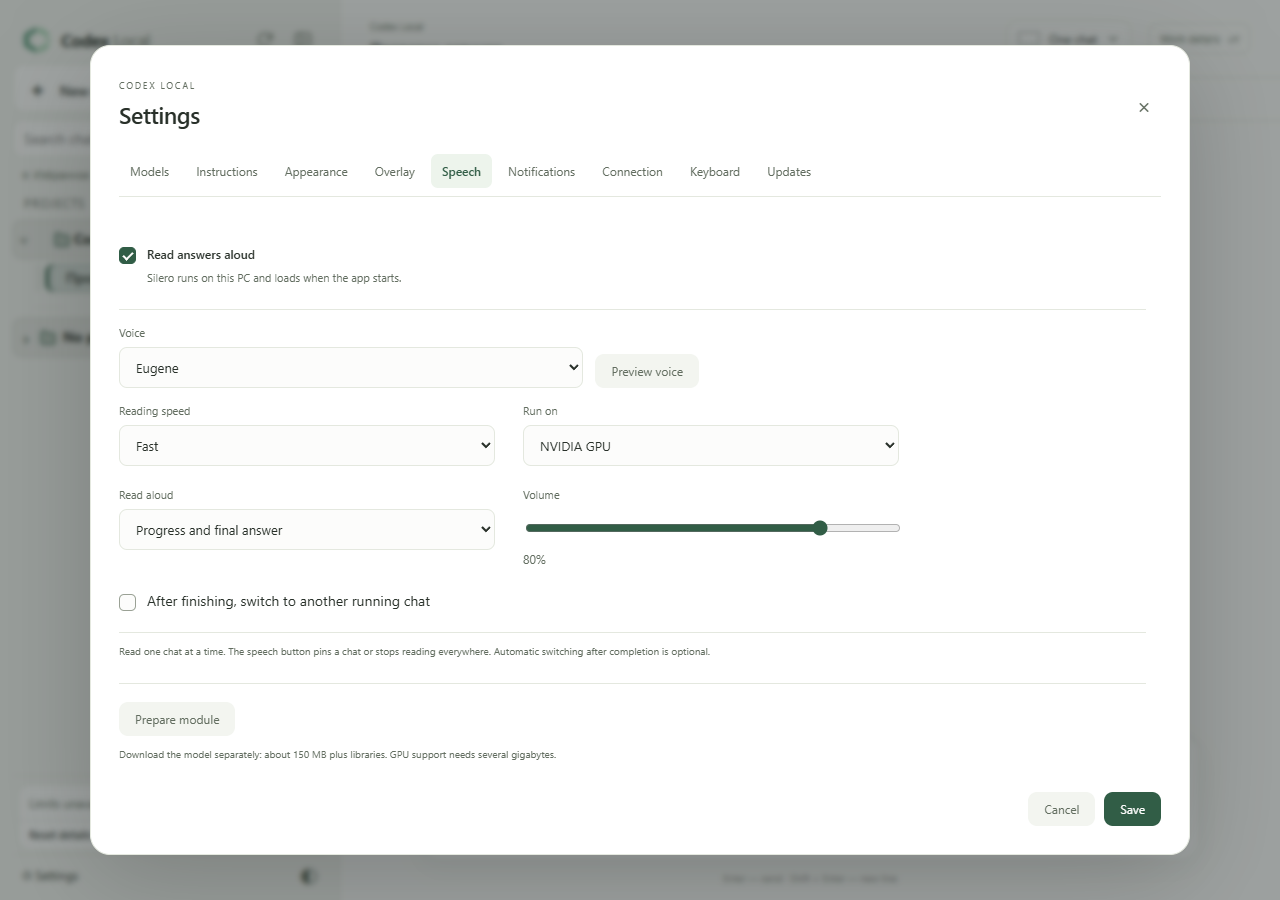
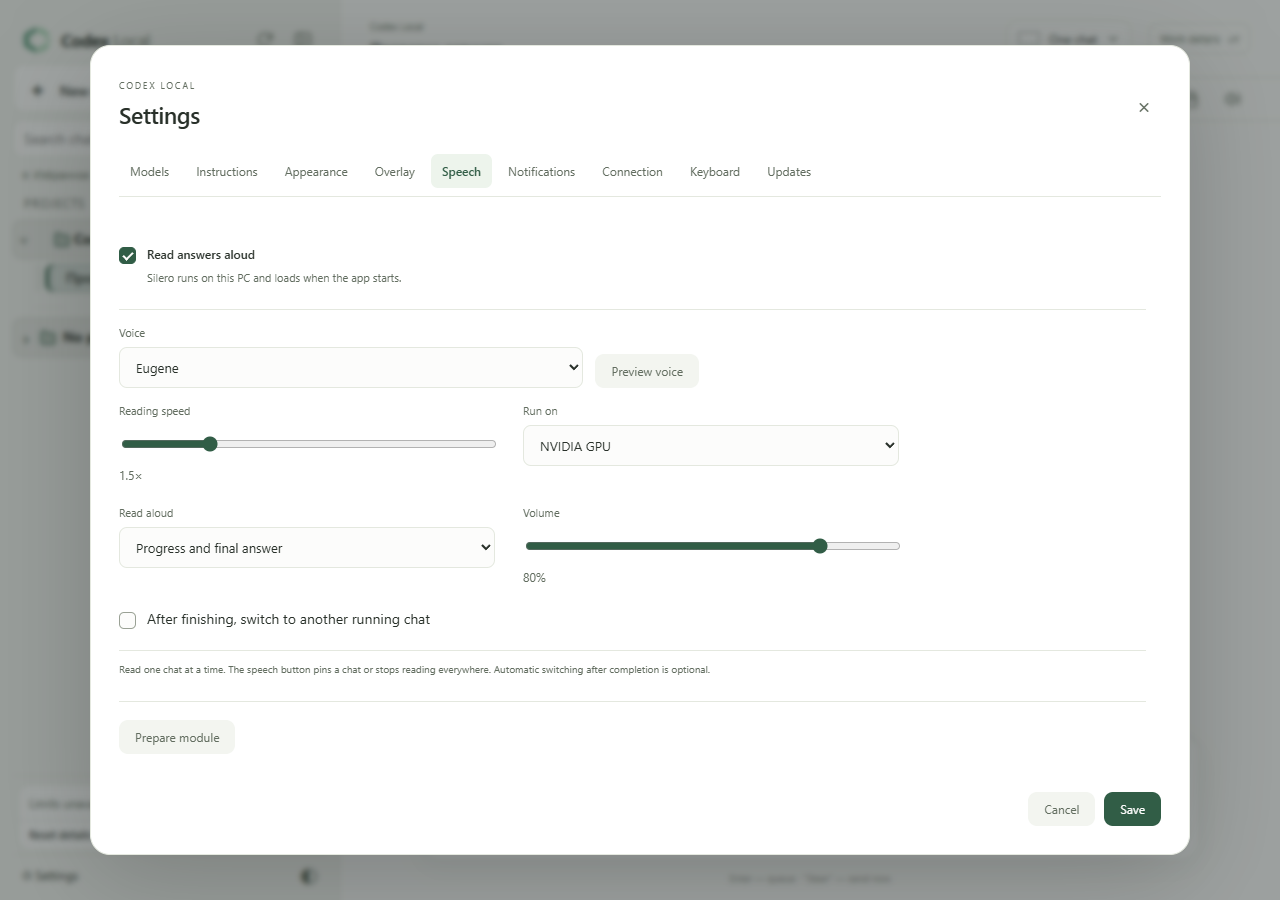
Update 0.8.88 speech controls and documentation [skip ci]

diff --git a/README.en.md b/README.en.md
@@ -3,7 +3,7 @@
   <h1>Codex Local</h1>
   <p>Your Codex — on your PC, in a browser and on your phone.</p>
   <p><strong>Windows x64 · local panel · web access and PWA</strong></p>
-  <p><a href="https://github.com/DenisG1302/codex-local/releases/tag/installer-v0.8.87"><strong>Download installer</strong></a> · <a href="https://github.com/DenisG1302/codex-local/releases">Release notes</a> · <a href="README.md">Русский</a></p>
+  <p><a href="https://github.com/DenisG1302/codex-local/releases/tag/installer-v0.8.88"><strong>Download installer</strong></a> · <a href="https://github.com/DenisG1302/codex-local/releases">Release notes</a> · <a href="README.md">Русский</a></p>
 </div>
 
 ---
@@ -64,7 +64,7 @@ In Settings → Overlay, choose the appearance, size, position and opacity; Test
 
 ## Listen to answers
 
-Download Silero in Settings → Speech and choose one of five Russian voices, reading speed, volume, and CPU or NVIDIA GPU processing. Listen to final answers or include progress updates; enabled speech loads when the app starts. When switching from CPU to GPU, click “Download Silero” again to prepare the required libraries.
+Download Silero in Settings → Speech and choose one of five Russian voices, reading speed from 0.5× to 5× in 0.5× steps, volume, and CPU or NVIDIA GPU processing. Listen to final answers or include progress updates; enabled speech loads when the app starts. When switching from CPU to GPU, click “Download Silero” again to prepare the required libraries.
 
 The speech button in a chat or overlay pins that chat or stops all reading. You can disable automatic switching to another working chat, or use “Read aloud” in a message menu to hear one answer. Available in the Windows app; the model downloads separately from the installer.
 
